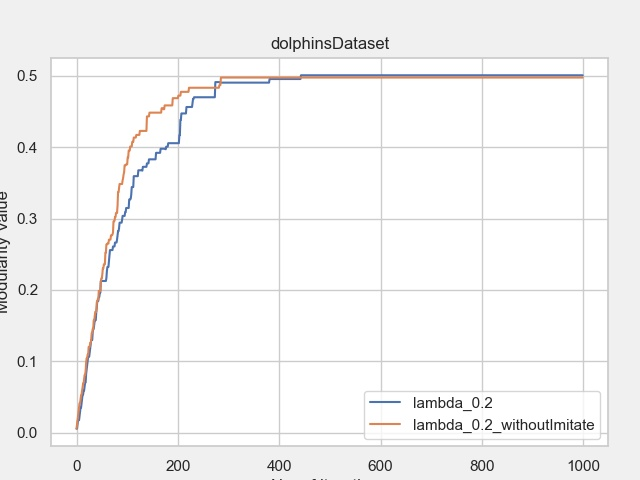
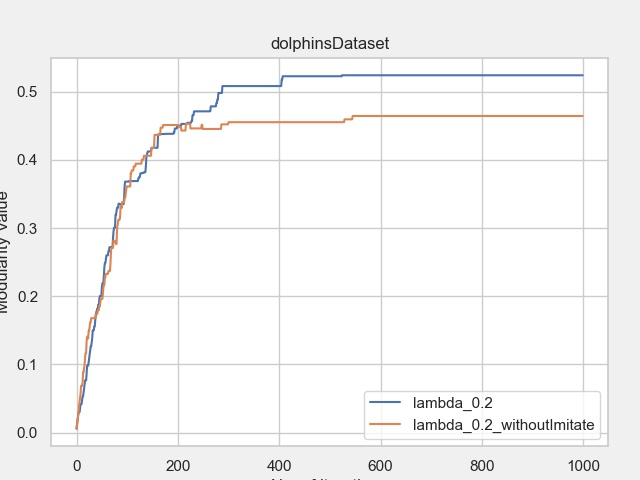
update dataset setting

diff --git a/Improve/main.py b/Improve/main.py
@@ -7,11 +7,13 @@ import numpy as np
 import seaborn as sns
 from numpy.random import choice
 from tqdm.auto import tqdm
+import csv
 from sklearn.metrics.cluster import normalized_mutual_info_score
 
 sns.set(style='whitegrid')
-dataset_name = 'dolphins'
-hyper_lambda = [0.2, 0.8, 1]
+dataset_name = ['dolphins','enron','karate']
+hyper_lambda = [0.2, 0.5, 0.8, 1]
+repeat = 10
 
 
 def utility(node_i, S, G):
@@ -30,11 +32,14 @@ def utility(node_i, S, G):
     return total_utility
 
 
+def degreeDecreaseSort():
+    ...
+
+
 def internalCommunityEdges(nodes_list, community_label):
     internaledges = 0
     for node in nodes_list:
         p = len(np.where(S[[n for n in G.neighbors(node)]] == community_label)[0])
-        # print(node)
         internaledges += p
 
     inter = internaledges / (2.0)
@@ -86,6 +91,7 @@ def join(node_i, S, G, lamda, probabilities, isImitate = True):
         val = lamda * (gain - loss) + (1 - lamda) * other
         max_utility.append(val)
 
+    # Imitate neighbor's decision
     if isImitate:
         n = len([i for i in G.neighbors(node_i)])
         for neighbor in G[node_i]:
@@ -98,7 +104,6 @@ def join(node_i, S, G, lamda, probabilities, isImitate = True):
         probabilities[node_i] *= (1 - lamda)
     maxUtilityIndex = max_utility.index(maximum_utility_val)
     communityIndex = community_toJoin[maxUtilityIndex]
-    # print(communityIndex)
 
     # update the community for node_i
     S[node_i] = communityIndex
@@ -127,55 +132,77 @@ def communityDetect(S, G, nIter, LAMBDA=1, isImitate=True):
 
 
 if __name__ == '__main__':
-    # load dataset and process into a graph
-    l1 = []
-    l2 = []
-    file = open('./' + dataset_name + '.txt')
-    for line in file:
-        l1.append(int(line.split()[0]))
-        l2.append(int(line.split()[1]))
-    df = pd.DataFrame()
-    df[1] = l1
-    df[2] = l2
+    for dataset in dataset_name:
+        # load dataset and process into a graph
+        l1 = []
+        l2 = []
+        file = open('./' + dataset + '.txt')
+        for line in file:
+            l1.append(int(line.split()[0]))
+            l2.append(int(line.split()[1]))
+        df = pd.DataFrame()
+        df[1] = l1
+        df[2] = l2
 
-    G = nx.Graph()
-    G = nx.from_pandas_edgelist(df, 1, 2)
-    mapping = {}
-    i = 0
-    for node in G.nodes:
-        mapping[node] = i
-        i += 1
-    G = nx.relabel_nodes(G, mapping)
-    print(nx.info(G))
+        G = nx.Graph()
+        G = nx.from_pandas_edgelist(df, 1, 2)
+        mapping = {}
+        i = 0
+        for node in G.nodes:
+            mapping[node] = i
+            i += 1
+        G = nx.relabel_nodes(G, mapping)
+        print(nx.info(G))
 
-    # Calculate the best partition for MODULARITY as evaluation
-    part = community.best_partition(G)
-    print('the Best Partition is: ', community.modularity(part, G))
+        # Calculate the best partition for MODULARITY as evaluation
+        part = community.best_partition(G)
+        print('the Best Partition is: ', community.modularity(part, G))
 
-    for lambda_iter in hyper_lambda:
-        # Storage the base info of graph，Caculate LAMBDA
-        totalEdges = G.number_of_edges()
-        totalNodes = G.number_of_nodes()
-        A = nx.to_numpy_array(G)
-        S = np.array([("C" + str(i)) for i in range(G.number_of_nodes())])
-        initial_S = np.array([("C" + str(i)) for i in range(G.number_of_nodes())])
-        nodesList = [node_k for node_k in range(G.number_of_nodes())]
-        probabilities = [float(1 / (G.number_of_nodes() * 1.0)) for i in range(G.number_of_nodes())]
-        value_lambda = communityDetect(S, G, nIter=1000, LAMBDA=0.2, isImitate=False)
-        print('Partition Modularity = ' + str(partitionModularity(S, G)))
+        for lambda_iter in hyper_lambda:
+            # repeat 10 times to caculate average
+            all_value = []
+            all_value_withoutImitate = []
 
-        S = np.array([("C" + str(i)) for i in range(G.number_of_nodes())])
-        value_lambda_withoutImitate = communityDetect(S, G, nIter=1000, LAMBDA=0.2, isImitate=True)
-        print('Partition Modularity = ' + str(partitionModularity(S, G)))
+            for repeat_iter in range(repeat):
+                # Storage the base info of graph，Caculate LAMBDA
+                totalEdges = G.number_of_edges()
+                totalNodes = G.number_of_nodes()
+                A = nx.to_numpy_array(G)
+                S = np.array([("C" + str(i)) for i in range(G.number_of_nodes())])
+                initial_S = np.array([("C" + str(i)) for i in range(G.number_of_nodes())])
+                nodesList = [node_k for node_k in range(G.number_of_nodes())]
+                probabilities = [float(1 / (G.number_of_nodes() * 1.0)) for i in range(G.number_of_nodes())]
+                value = communityDetect(S, G, nIter=1000, LAMBDA=lambda_iter, isImitate=False)
+                modularity = partitionModularity(S, G)
+                print('\nisImitate = False\nModularity = ' + str(modularity))
 
-        # Show the result
-        plt.style.use('fivethirtyeight')
-        sns.set(style='whitegrid')
-        plt.title(dataset_name + "Dataset")
-        sns.lineplot([i for i in range(len(value_lambda[0]))], value_lambda[0], label="lambda_"+str(lambda_iter))
-        sns.lineplot([i for i in range(len(value_lambda_withoutImitate[0]))],value_lambda_withoutImitate[0], label="lambda_"+str(lambda_iter)+"_withoutImitate")
+                S = np.array([("C" + str(i)) for i in range(G.number_of_nodes())])
+                value_withoutImitate = communityDetect(S, G, nIter=1000, LAMBDA=lambda_iter, isImitate=True)
+                modularity_withoutImitate = partitionModularity(S, G)
+                print('\nisImitate = True\nModularity = ' + str(modularity_withoutImitate))
 
-        plt.xlabel("No. of iterations")
-        plt.ylabel("Modularity Value")
-        plt.legend()
-        plt.savefig(dataset_name+"_lambda_"+str(lambda_iter)+".jpg")
+                if repeat_iter == 0:
+                    # Show the result
+                    plt.style.use('fivethirtyeight')
+                    sns.set(style='whitegrid')
+                    plt.title(dataset + "Dataset")
+                    sns.lineplot(x=[i for i in range(len(value[0]))], y=value[0], label="lambda_"+str(lambda_iter))
+                    sns.lineplot(x=[i for i in range(len(value_withoutImitate[0]))],y=value_withoutImitate[0],
+                                 label="lambda_"+str(lambda_iter)+"_withoutImitate")
+
+                    plt.xlabel("No. of iterations")
+                    plt.ylabel("Modularity Value")
+                    plt.legend()
+                    plt.savefig(dataset+"_lambda_"+str(lambda_iter)+".jpg")
+                    plt.clf()
+
+                # store repeat
+                all_value.append(modularity)
+                all_value_withoutImitate.append(modularity_withoutImitate)
+
+            df = pd.DataFrame({'all_value': np.array(all_value),
+                               'all_value_withoutImitate': np.array(all_value_withoutImitate),
+                               'average_all_value': sum(all_value)/repeat,
+                               'average_all_value_withoutImitate': sum(all_value_withoutImitate)/repeat})
+            df.to_csv(dataset+'_lambda_'+str(lambda_iter)+'.csv', index=False)
+
